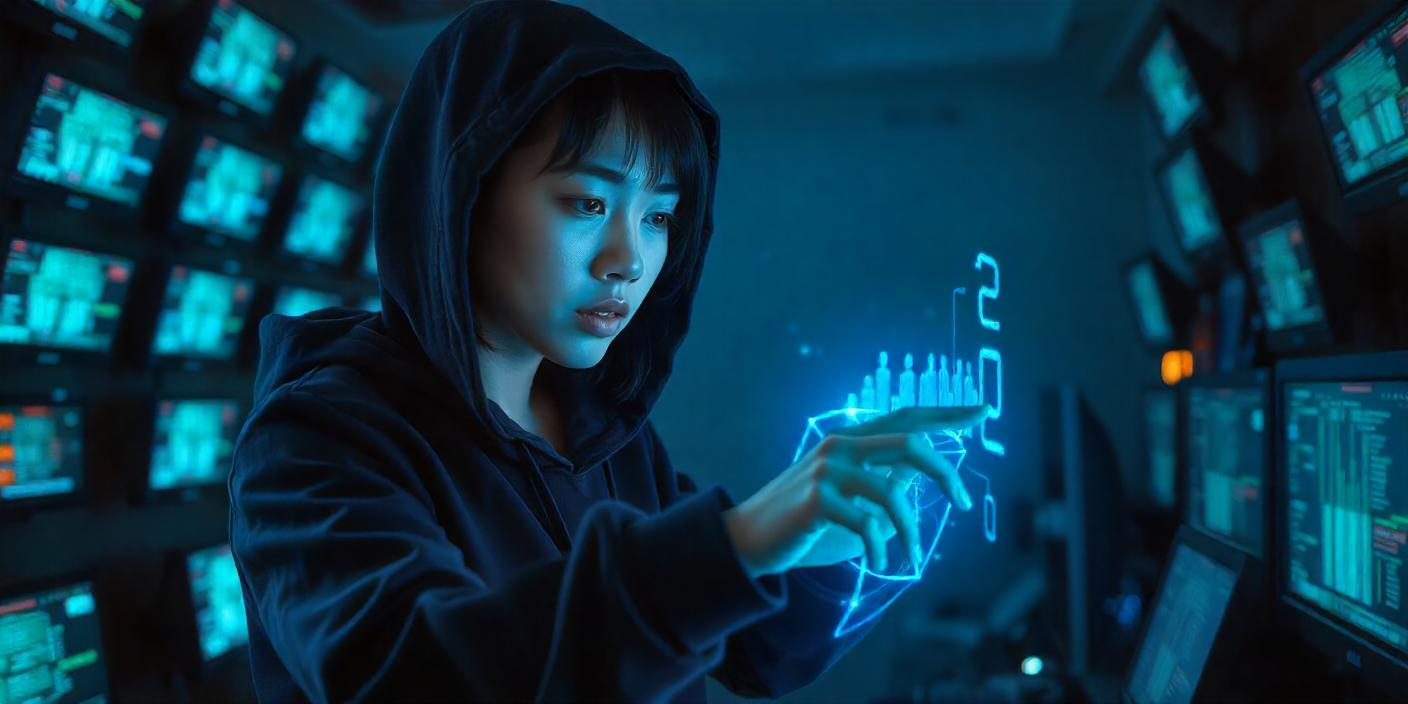
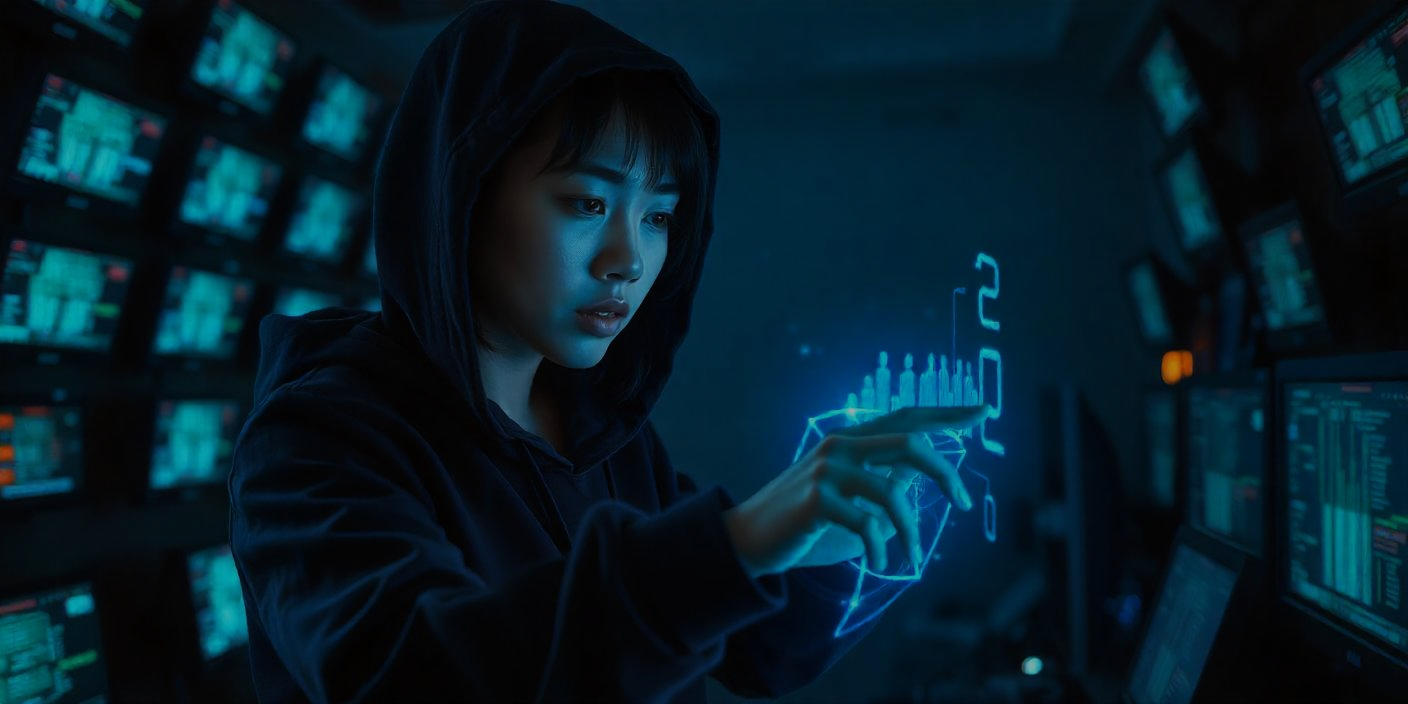
feat(home): modify images

diff --git a/src/app/hero.tsx b/src/app/hero.tsx
@@ -28,7 +28,7 @@ function Hero() {
 	return (
 		<div
 			id="home"
-			className="relative min-h-screen w-full bg-[url('/image/background.png')] bg-cover bg-center bg-no-repeat"
+			className="relative min-h-screen w-full bg-[url('/image/Background.png')] bg-cover bg-center bg-no-repeat"
 		>
 			<div id="homee" className="absolute inset-0 h-full w-full bg-gray-900/60" />
 			<div className="grid min-h-screen px-8">
